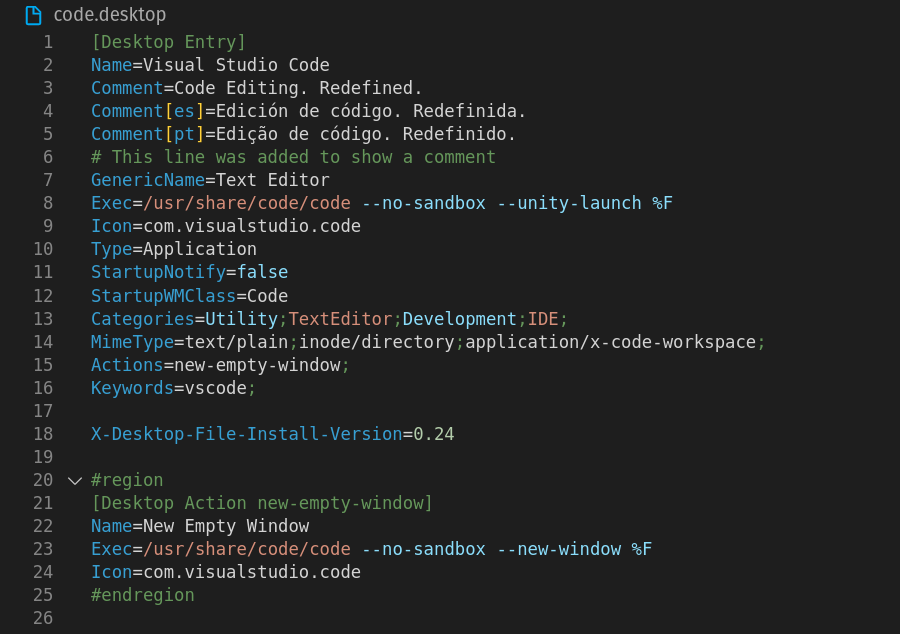
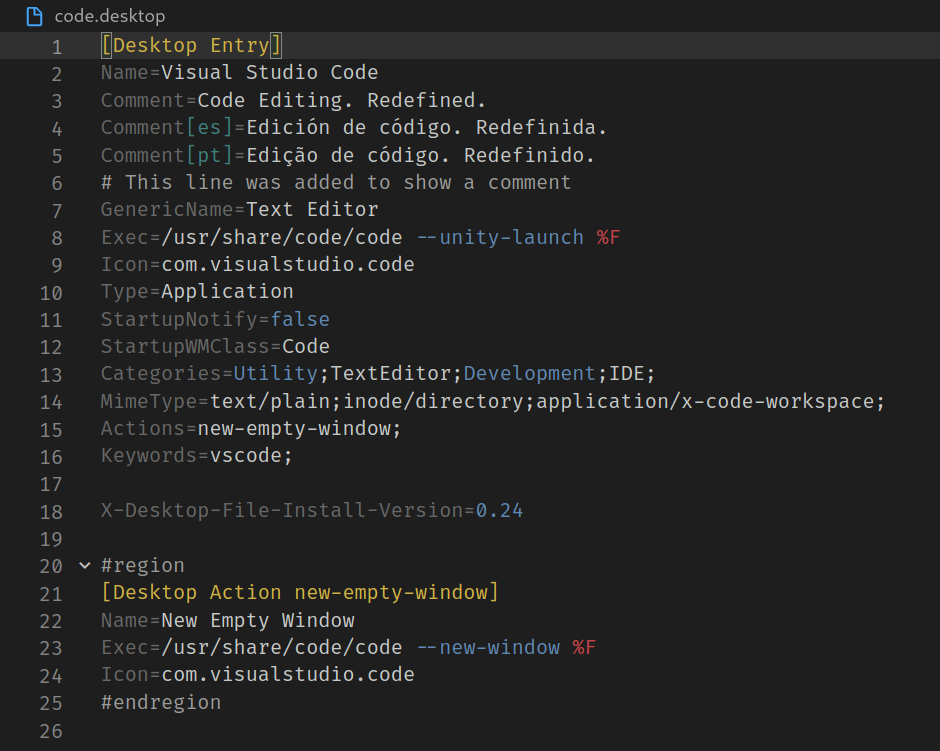
📝 Update documentation

Changed region(s): [[0.0311, 0.0, 0.9333, 0.989], [0.0933, 0.6593, 0.56, 0.6893]]

diff --git a/CHANGELOG.md b/CHANGELOG.md
@@ -2,10 +2,48 @@
 
 All significant changes to **Desktop File Support** will be documented here
 
-1. [Unreleased](#unreleased)
-1. [Released](#released)
-1. [Pre Releases](#Pre-Releases)
+- [Unreleased](#unreleased)
+	- [Added](#added)
+	- [Changed](#changed)
+	- [Fixed](#fixed)
+- [Released](#released)
+	- [Version 0.0.14 - 0.0.15 - *2021-07-17*](#version-0014---0015---2021-07-17)
+	- [Version 0.0.13 - *2021-02-24*](#version-0013---2021-02-24)
+	- [Version 0.0.10 - 0.0.12 - *2021-02-19*](#version-0010---0012---2021-02-19)
+	- [Version 0.0.9 - *2021-02-01*](#version-009---2021-02-01)
+	- [Version 0.0.8 - *2021-01-31*](#version-008---2021-01-31)
+	- [Version 0.0.7 - *2021-01-31*](#version-007---2021-01-31)
+	- [Version 0.0.6 - *2021-01-31*](#version-006---2021-01-31)
+	- [Version 0.0.5 - *2021-01-31*](#version-005---2021-01-31)
+- [Pre-Releases](#pre-releases)
+	- [Version 0.0.4 - *2021-01-30*](#version-004---2021-01-30)
+	- [Version 0.0.3 [YANKED] - *2021-01-30*](#version-003-yanked---2021-01-30)
+	- [Version 0.0.2 - *2021-01-09*](#version-002---2021-01-09)
+	- [Version 0.0.1 - *2021-01-09*](#version-001---2021-01-09)
 
+## Unreleased
+### Added
+- Files that end with the `.theme` extension are now opened as desktop entries.
+- The `CursorTheme` key was added for *index.theme* files.
+### Changed
+- `[Desktop Entry]` lines are now mapped to `markup.heading` so comments don't make them harder to
+	see.
+- Short arguments (`-l`, `-s`) to commands in the `Exec` key are now highlighted.
+- Typos like writing `Names` instead of `Name` now cause the entire key not to be highlighted,
+	making typos easier to spot.
+- `;` semi-colons are now scoped as `strong` (it's up to the theme to highlight them).
+- Changed the rules for ***%*** arguments in the value of the `Exec` key, they're now scoped to
+	`variable.language`, and they only highligh values allowed by the
+	[specification](https://specifications.freedesktop.org/desktop-entry-spec/latest/ar01s07.html)
+- Changed the textmate scope of freedesktop recognized categories for the `Categories` key. They're
+	now scoped to `markup.bold`.
+### Fixed
+- When you specify the language of keys such as `Name` and `Comment` by using `[]`, you no longer
+	need to type the `=` operator to have syntax highlighting.
+- Removed patterns that weren't useful.
+- The categories recognized by freedesktop are no longer highlighted outside the `Categories` key.
+
+## Released
 ### Version [0.0.14 - 0.0.15](https://gihtub.com/nico-castell/desktop-file-support/releases/tag/0.0.15) - *2021-07-17*
 #### Added
 - Support for missing keys (credit to @Luxcium).
@@ -24,8 +62,6 @@ All significant changes to **Desktop File Support** will be documented here
 #### Changed
 1. Sizing of the icon in the README.
 2. Style of Spock's quote in the README.
-
-## Released
 
 ### Version [0.0.9](https://github.com/nico-castell/desktop-file-support/releases/tag/0.0.9) - *2021-02-01*
 #### Fixed
@@ -50,7 +86,6 @@ This is the first official release of this extension.
 The extension finally has an icon.
 
 ---
-
 ## Pre-Releases
 
 ### Version 0.0.4 - *2021-01-30*

diff --git a/README.md b/README.md
@@ -20,8 +20,10 @@ like in gedit.
 For the full documentation of *.desktop* files, visit the freedesktop
 [specification](https://specifications.freedesktop.org/desktop-entry-spec/latest/index.html).
 
-<!-- <img width="625" height="440" src="assets/code-screenshot.png" alt="logo"> -->
-<img width="625" height="440" src="https://raw.githubusercontent.com/nico-castell/desktop-file-support/main/assets/code-screenshot.png">
+<!-- <img width="625" height="499" src="assets/code-screenshot.png" alt="logo"> -->
+<img width="625" height="499" src="https://raw.githubusercontent.com/nico-castell/desktop-file-support/main/assets/code-screenshot.png">
+
+- *Theme: Monokai Dark*
 
 ## Theme Index Files
 Additionally, this extension highlights `[X-GNOME-Metetheme]` and it's keys.
@@ -35,10 +37,5 @@ Additionally, this extension highlights `[X-GNOME-Metetheme]` and it's keys.
 2. Extra syntax highlighting for 
 	[Theme Index files](https://people.gnome.org/~shaunm/admin-guide/themes-17.html).
 3. Support for extensions to the format by using `X-`.
-4. Snippet for .desktop files: A standard way to tell gnome to open a new window.
-	```
-	Exec=/usr/share/code/code newwin # expands to:
-	Exec=/usr/share/code/code --no-sandbox --new-window
-	```
-5. Folding regions through the use of `#region` and `#endregion`. This is not officially part of
+4. Folding regions through the use of `#region` and `#endregion`. This is not officially part of
 	the specification, but it should help you.
